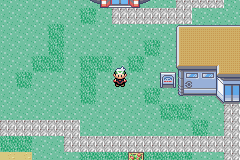
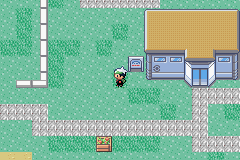
Adding Ichi Island and very rudimentary form change

diff --git a/src/field_player_avatar.c b/src/field_player_avatar.c
@@ -156,6 +156,10 @@ static bool32 IsMetatileLand(s16, s16, u32);
 
 static u8 TrySpinPlayerForWarp(struct ObjectEvent *, s16 *);
 
+void TransformPlayer(void);
+u8 InitPseudoPlayer(s16 x, s16 y, u8 direction, u8 gender);
+void SetCameraLocation(int x, int y);
+
 static bool8 (*const sForcedMovementTestFuncs[NUM_FORCED_MOVEMENTS])(u8) =
 {
     MetatileBehavior_IsTrickHouseSlipperyFloor,
@@ -2424,19 +2428,77 @@ static u8 TrySpinPlayerForWarp(struct ObjectEvent *object, s16 *delayTimer)
 }
 
 
-void TransformPlayer()
+void TransformPlayer(void)
 {
     if(!FlagGet(FLAG_TEMP_F))
     {
         FlagSet(FLAG_TEMP_F);
-        struct ObjectEvent *objEvent = &gObjectEvents[gPlayerAvatar.objectEventId];
-        FollowerSetGraphics(objEvent, SPECIES_MUDKIP, 0, FALSE);
+        struct ObjectEvent *playerObjectEvent = &gObjectEvents[gPlayerAvatar.objectEventId];
+        u16 species;
+        bool8 shiny;
+        u8 form;
+        GetFollowerInfo(&species, &shiny, &form);
+
+        MoveObjectEventToMapCoords(playerObjectEvent, (int)playerObjectEvent->currentCoords.x, (int)playerObjectEvent->currentCoords.y - 1);
+        MoveCameraAndRedrawMap(0, -1);
+        FlagSet(FLAG_TEMP_HIDE_FOLLOWER);
+        UpdateFollowingPokemon();
+
+        u8 pseudoPlayerId = InitPseudoPlayer(playerObjectEvent->currentCoords.x, (int)playerObjectEvent->currentCoords.y + 1, playerObjectEvent->movementDirection, gPlayerAvatar.gender);
+        VarSet(VAR_TEMP_A, pseudoPlayerId);
+        
+        FollowerSetGraphics(playerObjectEvent, species, 0, FALSE);
         SetPlayerAvatarStateMask(PLAYER_AVATAR_FLAG_ON_FOOT);
     }
     else
     {
         FlagClear(FLAG_TEMP_F);
-        struct ObjectEvent *objEvent = &gObjectEvents[gPlayerAvatar.objectEventId];
-        ObjectEventSetGraphics(objEvent, GetObjectEventGraphicsInfo(OBJ_EVENT_GFX_BRENDAN_NORMAL));
+        struct ObjectEvent *playerObjectEvent = &gObjectEvents[gPlayerAvatar.objectEventId];
+        struct ObjectEvent *pseudoPlayerObject = &gObjectEvents[VarGet(VAR_TEMP_A)];
+
+        FlagClear(FLAG_TEMP_HIDE_FOLLOWER);
+        UpdateFollowingPokemon();
+
+        MoveCameraAndRedrawMap((int)pseudoPlayerObject->currentCoords.x - (int)playerObjectEvent->currentCoords.x, (int)pseudoPlayerObject->currentCoords.y - (int)playerObjectEvent->currentCoords.y + 1);
+        MoveObjectEventToMapCoords(playerObjectEvent, (int)pseudoPlayerObject->currentCoords.x, (int)pseudoPlayerObject->currentCoords.y + 1);
+        ObjectEventSetGraphics(playerObjectEvent, GetObjectEventGraphicsInfo(OBJ_EVENT_GFX_BRENDAN_NORMAL));
+        playerObjectEvent->facingDirection = DIR_SOUTH;
+
+        struct ObjectEvent *followerObj = GetFollowerObject();
+        MoveObjectEventToMapCoords(followerObj, (int)pseudoPlayerObject->currentCoords.x, (int)pseudoPlayerObject->currentCoords.y);
+
+        RemoveObjectEvent(pseudoPlayerObject);
     }
+}
+
+void SetCameraLocation(int x, int y)
+{
+    gSaveBlock1Ptr->pos.x = x;
+    gSaveBlock1Ptr->pos.y = y;
+}
+
+u8 InitPseudoPlayer(s16 x, s16 y, u8 direction, u8 gender)
+{
+    struct ObjectEventTemplate playerObjEventTemplate;
+    u8 objectEventId;
+    struct ObjectEvent *objectEvent;
+
+    playerObjEventTemplate.localId = 10;
+    playerObjEventTemplate.graphicsId = GetPlayerAvatarGraphicsIdByStateIdAndGender(PLAYER_AVATAR_STATE_NORMAL, gender);
+    playerObjEventTemplate.x = x - MAP_OFFSET;
+    playerObjEventTemplate.y = y - MAP_OFFSET;
+    playerObjEventTemplate.elevation = 0;
+    playerObjEventTemplate.movementType = MOVEMENT_TYPE_PLAYER;
+    playerObjEventTemplate.movementRangeX = 0;
+    playerObjEventTemplate.movementRangeY = 0;
+    playerObjEventTemplate.trainerType = TRAINER_TYPE_NONE;
+    playerObjEventTemplate.trainerRange_berryTreeId = 0;
+    playerObjEventTemplate.script = NULL;
+    playerObjEventTemplate.flagId = 0;
+    objectEventId = SpawnSpecialObjectEvent(&playerObjEventTemplate);
+    objectEvent = &gObjectEvents[objectEventId];
+    //objectEvent->warpArrowSpriteId = CreateWarpArrowSprite();
+    ObjectEventTurn(objectEvent, direction);
+
+    return objectEventId;
 }

diff --git a/src/event_object_movement.c b/src/event_object_movement.c
@@ -185,8 +185,8 @@ static void SetSpriteDataForNormalStep(struct Sprite *, u8, u8);
 static void InitSpriteForFigure8Anim(struct Sprite *);
 static bool8 AnimateSpriteInFigure8(struct Sprite *);
 u8 GetDirectionToFace(s16 x1, s16 y1, s16 x2, s16 y2);
-static void FollowerSetGraphics(struct ObjectEvent *, u16, u8, bool8);
-static void ObjectEventSetGraphics(struct ObjectEvent *, const struct ObjectEventGraphicsInfo *);
+void FollowerSetGraphics(struct ObjectEvent *, u16, u8, bool8);
+void ObjectEventSetGraphics(struct ObjectEvent *, const struct ObjectEventGraphicsInfo *);
 static void SpriteCB_VirtualObject(struct Sprite *);
 static void DoShadowFieldEffect(struct ObjectEvent *);
 static void SetJumpSpriteData(struct Sprite *, u8, u8, u8);
@@ -196,7 +196,7 @@ static u8 DoJumpSpriteMovement(struct Sprite *);
 static u8 DoJumpSpecialSpriteMovement(struct Sprite *);
 static void CreateLevitateMovementTask(struct ObjectEvent *);
 static void DestroyLevitateMovementTask(u8);
-static bool8 GetFollowerInfo(u16 *species, u8 *form, u8 *shiny);
+bool8 GetFollowerInfo(u16 *species, u8 *form, u8 *shiny);
 static u8 LoadDynamicFollowerPalette(u16 species, u8 form, bool32 shiny);
 static const struct ObjectEventGraphicsInfo *SpeciesToGraphicsInfo(u16 species, u8 form);
 static bool8 NpcTakeStep(struct Sprite *);
@@ -204,6 +204,8 @@ static bool8 IsElevationMismatchAt(u8, s16, s16);
 static bool8 AreElevationsCompatible(u8, u8);
 static u16 PackGraphicsId(const struct ObjectEventTemplate *template);
 static void CopyObjectGraphicsInfoToSpriteTemplate_WithMovementType(u16 graphicsId, u16 movementType, struct SpriteTemplate *spriteTemplate, const struct SubspriteTable **subspriteTables);
+
+void RemoveObjectEvent(struct ObjectEvent *objectEvent);
 
 static const struct SpriteFrameImage sPicTable_PechaBerryTree[];
 
@@ -1413,7 +1415,7 @@ static bool8 GetAvailableObjectEventId(u16 localId, u8 mapNum, u8 mapGroup, u8 *
     return FALSE;
 }
 
-static void RemoveObjectEvent(struct ObjectEvent *objectEvent)
+void RemoveObjectEvent(struct ObjectEvent *objectEvent)
 {
     objectEvent->active = FALSE;
     RemoveObjectEventInternal(objectEvent);
@@ -1956,7 +1958,7 @@ static u8 LoadDynamicFollowerPalette(u16 species, u8 form, bool32 shiny)
 }
 
 // Set graphics & sprite for a follower object event by species & shininess.
-static void FollowerSetGraphics(struct ObjectEvent *objEvent, u16 species, u8 form, bool8 shiny)
+void FollowerSetGraphics(struct ObjectEvent *objEvent, u16 species, u8 form, bool8 shiny)
 {
     const struct ObjectEventGraphicsInfo *graphicsInfo = SpeciesToGraphicsInfo(species, form);
     ObjectEventSetGraphics(objEvent, graphicsInfo);
@@ -2066,7 +2068,7 @@ static bool8 GetMonInfo(struct Pokemon *mon, u16 *species, u8 *form, u8 *shiny)
 }
 
 // Retrieve graphic information about the following pokemon, if any
-static bool8 GetFollowerInfo(u16 *species, u8 *form, u8 *shiny)
+bool8 GetFollowerInfo(u16 *species, u8 *form, u8 *shiny)
 {
     return GetMonInfo(GetFirstLiveMon(), species, form, shiny);
 }
@@ -2638,7 +2640,7 @@ u8 UpdateSpritePaletteByTemplate(const struct SpriteTemplate *template, struct S
 }
 
 // Set graphics *by info*
-static void ObjectEventSetGraphics(struct ObjectEvent *objectEvent, const struct ObjectEventGraphicsInfo *graphicsInfo)
+void ObjectEventSetGraphics(struct ObjectEvent *objectEvent, const struct ObjectEventGraphicsInfo *graphicsInfo)
 {
     struct Sprite *sprite = &gSprites[objectEvent->spriteId];
     u32 i = FindObjectEventPaletteIndexByTag(graphicsInfo->paletteTag);

diff --git a/src/overworld.c b/src/overworld.c
@@ -121,7 +121,7 @@ static void OffsetCameraFocusByLinkPlayerId(void);
 static void SpawnLinkPlayers(void);
 static void SetCameraToTrackGuestPlayer(void);
 static void ResumeMap(bool32);
-static void SetCameraToTrackPlayer(void);
+void SetCameraToTrackPlayer(void);
 static void InitObjectEventsReturnToField(void);
 static void InitViewGraphics(void);
 static void SetCameraToTrackGuestPlayer_2(void);
@@ -2237,7 +2237,7 @@ static void InitObjectEventsReturnToField(void)
     RunOnReturnToFieldMapScript();
 }
 
-static void SetCameraToTrackPlayer(void)
+void SetCameraToTrackPlayer(void)
 {
     gObjectEvents[gPlayerAvatar.objectEventId].trackedByCamera = TRUE;
     InitCameraUpdateCallback(gPlayerAvatar.spriteId);

diff --git a/include/event_object_movement.h b/include/event_object_movement.h
@@ -488,4 +488,10 @@ bool32 IsVirtualObjectAnimating(u8 virtualObjId);
 bool8 MovementAction_EmoteX_Step0(struct ObjectEvent *, struct Sprite *);
 bool8 MovementAction_EmoteDoubleExclamationMark_Step0(struct ObjectEvent *, struct Sprite *);
 
+void ObjectEventSetGraphics(struct ObjectEvent *, const struct ObjectEventGraphicsInfo *);
+void FollowerSetGraphics(struct ObjectEvent *, u16, u8, bool8);
+void RemoveObjectEvent(struct ObjectEvent *objectEvent);
+
+bool8 GetFollowerInfo(u16 *species, u8 *form, u8 *shiny);
+
 #endif //GUARD_EVENT_OBJECT_MOVEMENT_H

diff --git a/src/party_menu.c b/src/party_menu.c
@@ -1439,6 +1439,7 @@ static s8 *GetCurrentPartySlotPtr(void)
 
 static void HandleChooseMonSelection(u8 taskId, s8 *slotPtr)
 {
+    u8 pointer = (int)slotPtr;
     if (*slotPtr == PARTY_SIZE)
     {
         gPartyMenu.task(taskId);
@@ -1495,6 +1496,7 @@ static void HandleChooseMonSelection(u8 taskId, s8 *slotPtr)
             break;
         case PARTY_ACTION_CHOOSE_AND_CLOSE:
             PlaySE(SE_SELECT);
+            VarSet(VAR_TEMP_8, pointer);
             Task_ClosePartyMenu(taskId);
             break;
         case PARTY_ACTION_MINIGAME:

diff --git a/src/field_camera.c b/src/field_camera.c
@@ -33,6 +33,8 @@ static void DrawMetatileAt(const struct MapLayout *, u16, int, int);
 static void DrawMetatile(s32, const u16 *, u16);
 static void CameraPanningCB_PanAhead(void);
 
+void MoveCameraAndRedrawMap(int deltaX, int deltaY);
+
 static struct FieldCameraOffset sFieldCameraOffset;
 static s16 sHorizontalCameraPan;
 static s16 sVerticalCameraPan;

diff --git a/include/field_camera.h b/include/field_camera.h
@@ -29,4 +29,6 @@ void InstallCameraPanAheadCallback(void);
 void UpdateCameraPanning(void);
 void FieldUpdateBgTilemapScroll(void);
 
+void MoveCameraAndRedrawMap(int deltaX, int deltaY);
+
 #endif //GUARD_FIELD_CAMERA_H

diff --git a/include/overworld.h b/include/overworld.h
@@ -155,4 +155,6 @@ bool32 Overworld_SendKeysToLinkIsRunning(void);
 bool32 IsSendingKeysOverCable(void);
 void ClearLinkPlayerObjectEvents(void);
 
+void SetCameraToTrackPlayer(void);
+
 #endif // GUARD_OVERWORLD_H
